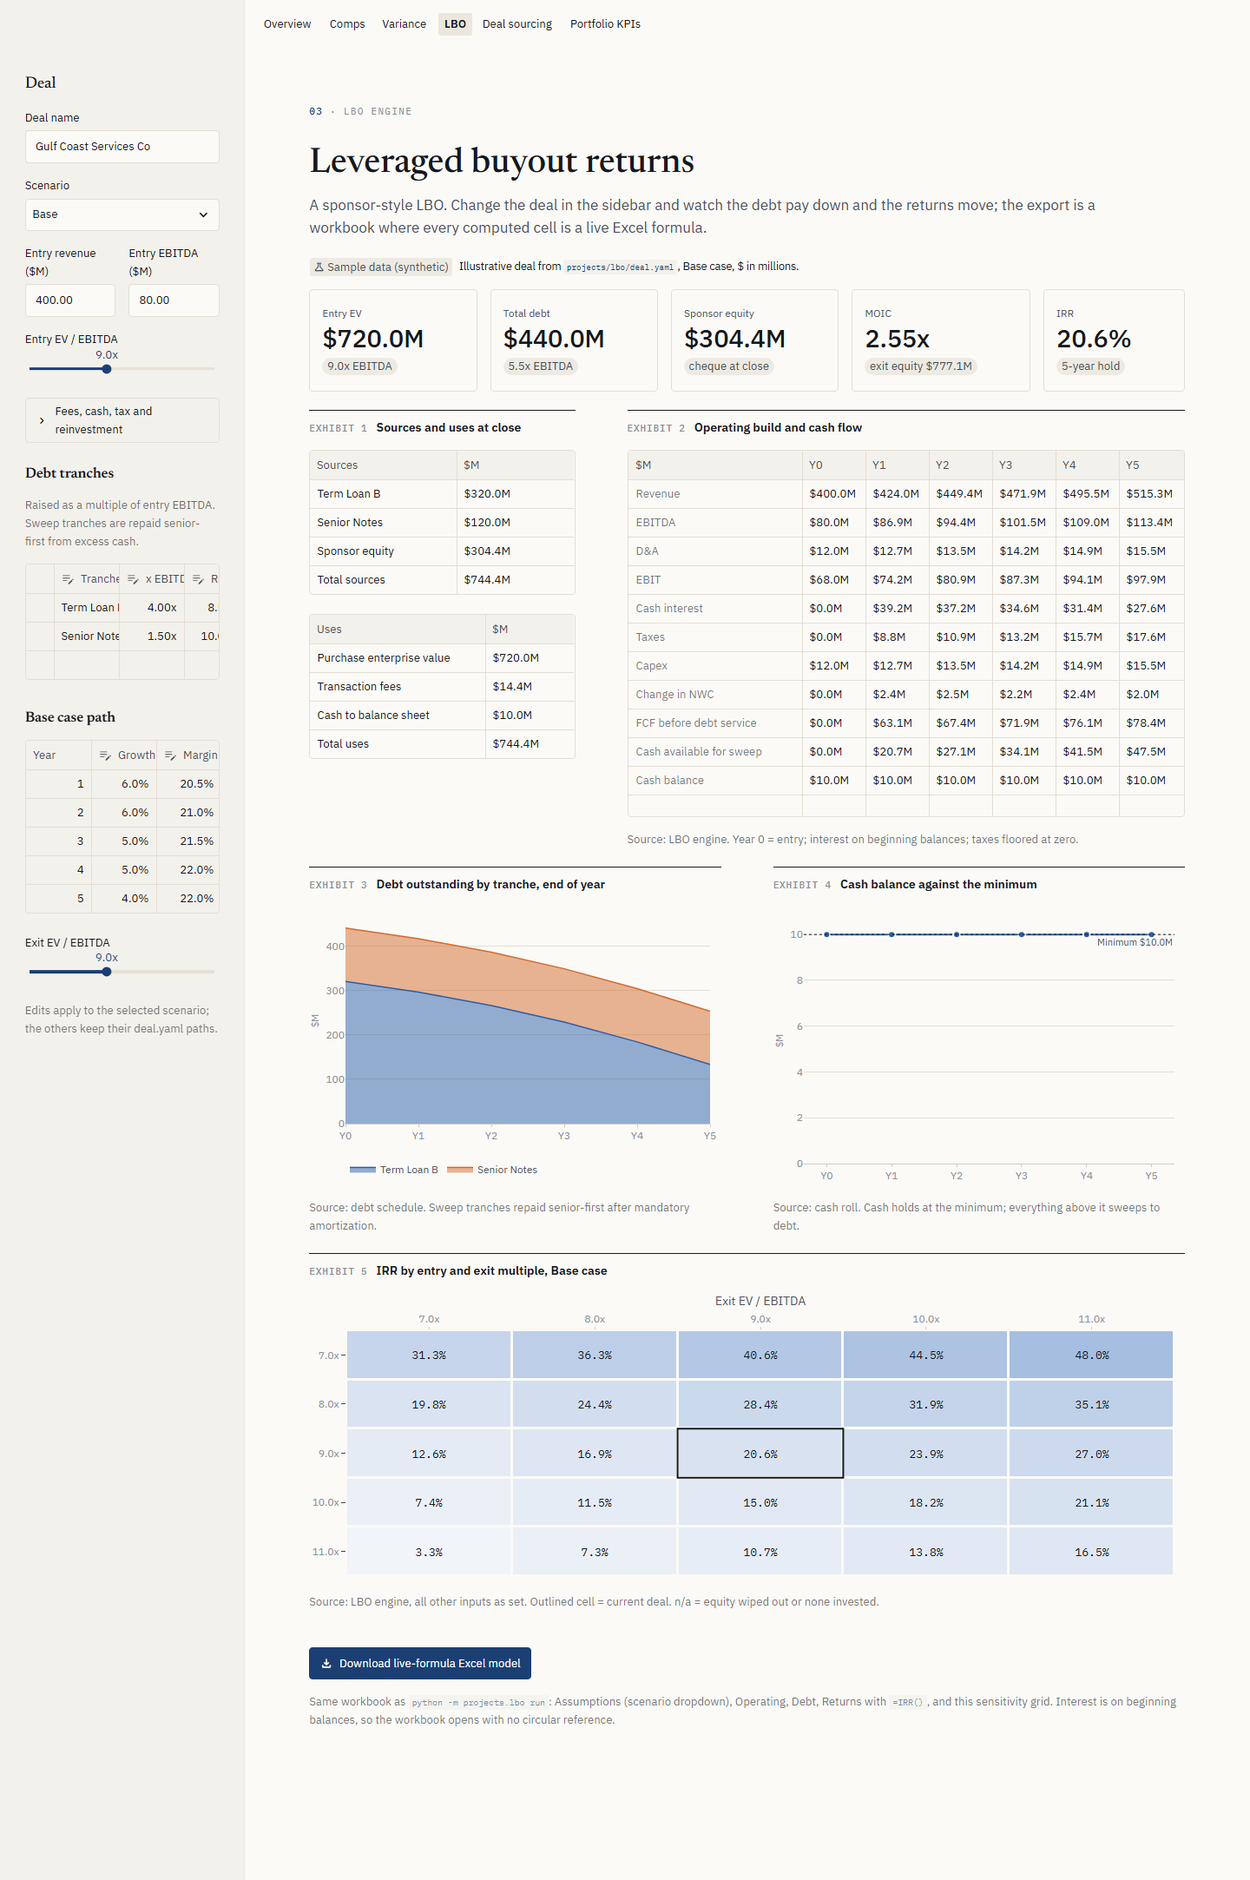
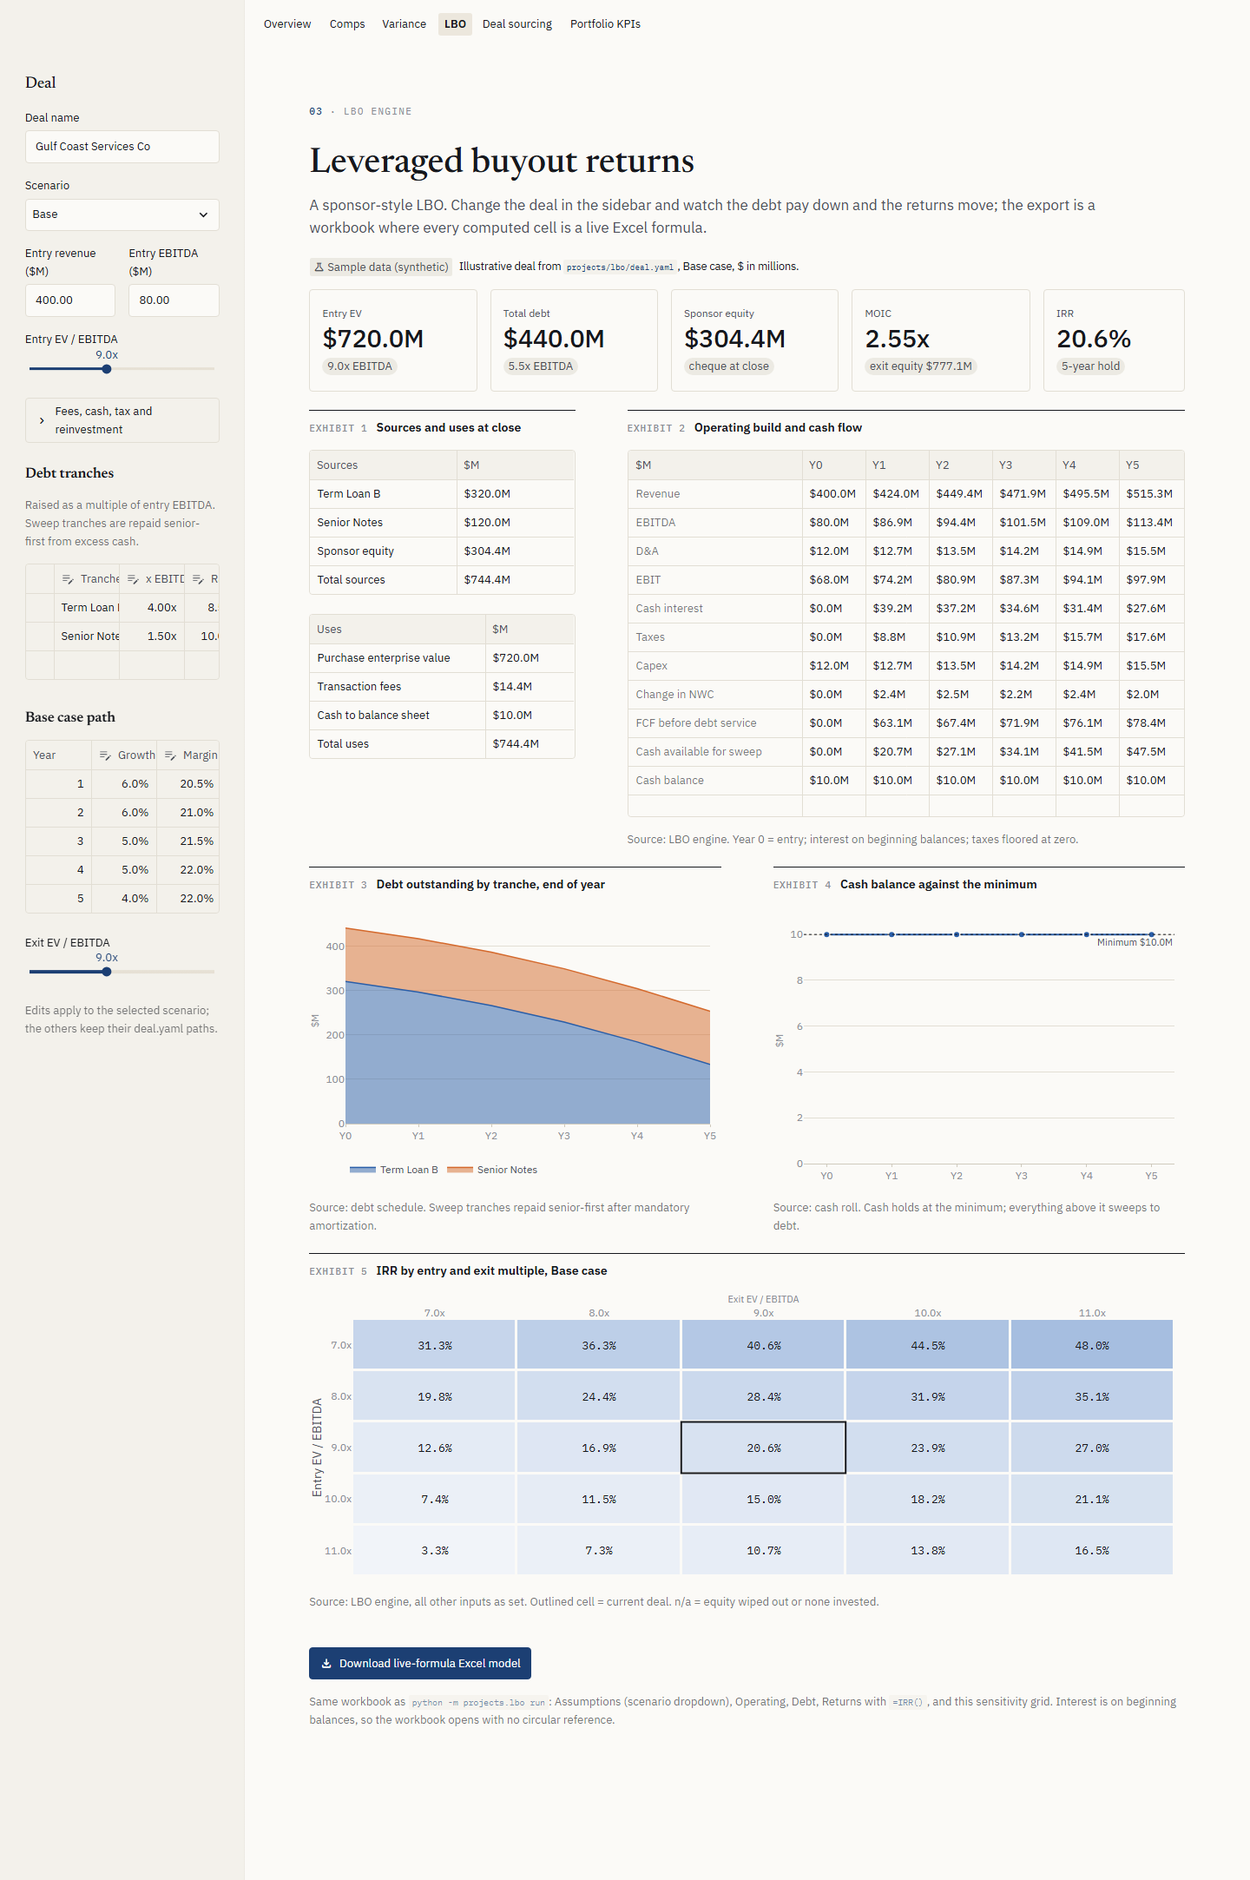
Fix code-review findings on the redesign
- Chart axis overrides now run after ui.style(), so funnel, score and
  heatmap charts keep their no-grid / no-tick settings.
- Score breakdown is a one-hue heatmap keyed by rank (no merged duplicate
  issuers, no unvalidated 4th/5th series colors) and follows the digest
  row count.
- Uploaded file names are escaped before st.markdown; all provenance
  badges are gray per DESIGN.md.
- "In target states" comes from new finlib.models.sourcing.kept_in_states
  (tested); the inline funnel percentage is gone.
- Overview derives its fixture day and variance period like the pages do,
  guards a missing YoY, and its test compares every tape figure with a
  direct engine call.
- Remove unused fu_pill.

Changed region(s): [[0.25, 0.6808, 0.9375, 0.8356]]

diff --git a/app/pages/4_Deal_Sourcing.py b/app/pages/4_Deal_Sourcing.py
@@ -10,7 +10,7 @@ import plotly.graph_objects as go
 import streamlit as st
 
 import fp_ui as ui
-from finlib.models.sourcing import ScoringConfig, digest_markdown, funnel, rank
+from finlib.models.sourcing import ScoringConfig, digest_markdown, funnel, kept_in_states, rank
 from finlib.providers.formd import FIXTURE_DIR, FormDProvider
 from finlib.store.sourcing_db import SourcingDB
 from projects.sourcing.cli import HERE, load_config
@@ -97,8 +97,7 @@ with st.container(horizontal=True):
               delta_arrow="off", border=True, height="stretch")
     st.metric("Top score", f"{kept[0]['score']:.0f}" if kept else "–", kept[0]["issuer"] if kept else None,
               delta_color="off", delta_arrow="off", border=True, height="stretch")
-    in_target = sum(1 for r in kept if r["state"] in set(target_states))
-    st.metric("In target states", in_target, ", ".join(target_states) or "none set", delta_color="off",
+    st.metric("In target states", kept_in_states(rows, target_states), ", ".join(target_states) or "none set", delta_color="off",
               delta_arrow="off", border=True, height="stretch")
 
 left, right = st.columns(2, gap="large")
@@ -107,19 +106,19 @@ with left:
     stages = funnel(rows)
     fig = go.Figure(go.Bar(
         y=[s for s, _ in stages], x=[n for _, n in stages], orientation="h", marker_color=ui.NAVY,
-        marker_cornerradius=2, text=[f"{n}  ({n / stages[0][1]:.0%})" for _, n in stages], textposition="outside",
+        marker_cornerradius=2, text=[str(n) for _, n in stages], textposition="outside",
         textfont=dict(color=ui.INK, size=12), cliponaxis=False, hovertemplate="%{y}: %{x}<extra></extra>"))
-    fig.update_yaxes(autorange="reversed", gridcolor="rgba(0,0,0,0)", zeroline=False)
     fig.update_layout(bargap=0.45)
-    fig = ui.style(fig, height=280)
-    fig.update_xaxes(showticklabels=False, showgrid=False)
+    fig = ui.style(fig, height=280)  # then this chart's overrides: categorical rows, no grid
+    fig.update_yaxes(autorange="reversed", showgrid=False, zeroline=False)
+    fig.update_xaxes(showticklabels=False, showgrid=False, ticks="", showline=False)
     fig.update_layout(margin=dict(r=70))
     ui.show(fig)
     ui.source("fund filter by industry and name, then amendments, then the minimum amount sold.")
 with right:
     ui.exhibit(2, "Kept raises by issuer state")
     by_state = pd.Series([r["state"] or "?" for r in kept]).value_counts()
-    targets = set(target_states)
+    targets = set(target_states)  # color lookup only
     fig = go.Figure(go.Bar(
         x=by_state.index, y=by_state.values, marker_cornerradius=2,
         marker_color=[ui.BLUE if s in targets else ui.AXIS for s in by_state.index],
@@ -152,20 +151,20 @@ else:
         st.caption("First-time filer = CIK not in a local `sourcing.sqlite`. None exists here, so every issuer "
                    "counts as first-time.")
 
-    ui.exhibit(4, "Where each score comes from, top 10")
-    top = kept[:10]
-    fig = go.Figure()
-    part_colors = dict(zip(labels, ui.SERIES + ui.SERIES_EXTRA[:2]))
-    for k, lab in labels.items():
-        fig.add_trace(go.Bar(
-            y=[r["issuer"] for r in top], x=[r["score_parts"].get(k, 0) for r in top], name=lab, orientation="h",
-            marker=dict(color=part_colors[k], line=dict(color=ui.PAPER, width=1)),
-            hovertemplate=f"%{{y}}<br>{lab}: %{{x:.1f}} pts<extra></extra>"))
-    fig.update_layout(barmode="stack", bargap=0.35)
-    fig.update_yaxes(autorange="reversed", gridcolor="rgba(0,0,0,0)", zeroline=False)
-    fig = ui.style(fig, height=380, legend=True)
-    fig.update_xaxes(title="Points", showgrid=True, gridcolor=ui.GRID, title_font=dict(color=ui.MUTED, size=11))
-    fig.update_layout(legend_traceorder="normal", legend_y=-0.14)
+    top = kept[:min(top_n, 10)]
+    ui.exhibit(4, f"Where each score comes from, top {len(top)}")
+    # One hue, light to dark: the five parts are columns, so they need no categorical colors.
+    fig = go.Figure(go.Heatmap(
+        z=[[r["score_parts"].get(k, 0) for k in labels] for r in top],
+        x=list(labels.values()), y=[f"{i}. {r['issuer']}" for i, r in enumerate(top, start=1)],
+        text=[[f"{r['score_parts'].get(k, 0):.1f}" for k in labels] for r in top], texttemplate="%{text}",
+        textfont=dict(color=ui.INK, size=12, family=ui.MONO),
+        colorscale=[[i / 3, c] for i, c in enumerate(ui.SEQ_BLUE[:4])], zmin=0,
+        zmax=max(max(weights.values()), 1), showscale=False, xgap=3, ygap=3,
+        hovertemplate="%{y}<br>%{x}: %{text} pts<extra></extra>"))
+    fig = ui.style(fig, height=44 * len(top) + 60)
+    fig.update_xaxes(side="top", showline=False, ticks="", tickfont=dict(color=ui.INK_2))
+    fig.update_yaxes(autorange="reversed", showgrid=False, zeroline=False, ticks="", tickfont=dict(color=ui.INK))
     ui.show(fig)
     ui.source("score = amount (log-scaled) + investor count + first-time filer + target state + target industry, "
               "weighted by the sidebar sliders.")

diff --git a/tests/test_app.py b/tests/test_app.py
@@ -63,6 +63,12 @@ def test_formatters_follow_excel_conventions():
     assert ui.fmt_usd(-190288.48) == "($190,288)"
 
 
+def test_upload_names_are_escaped_before_markdown():
+    out = ui.escape_text("a</small><img src=x onerror=alert(1)>_*b*:material/x:.csv")
+    assert "<" not in out and ">" not in out
+    assert r"\_\*b\*\:material/x\:" in out
+
+
 # ---------------------------------------------------------------- home ---------------
 def test_router_opens_on_overview():
     at = run_page("Home.py")
@@ -70,7 +76,16 @@ def test_router_opens_on_overview():
 
 
 def test_overview_lists_five_tools_with_resume_lines_and_live_tape():
+    from datetime import date
+
     from finlib.models.lbo import LBOAssumptions, run_lbo
+    from finlib.models.ratios import summary_rows
+    from finlib.models.sourcing import funnel, rank
+    from finlib.providers.formd import FormDProvider
+    from projects.comps.cli import load_all
+    from projects.dashboard.cli import HERE as DASH, payload_from_frame
+    from projects.sourcing.cli import HERE as SRC, load_config
+    from projects.variance.cli import HERE as VAR, build_variance, load_thresholds
 
     at = run_page("Home.py")  # page links resolve only through the router
     captions = " ".join(c.value for c in at.caption)
@@ -80,9 +95,16 @@ def test_overview_lists_five_tools_with_resume_lines_and_live_tape():
     tape = metrics(at)
     lbo = run_lbo(LBOAssumptions(**yaml.safe_load((ROOT / "projects/lbo/deal.yaml").read_text())))
     assert tape["03 · LBO engine"] == ui.fmt_pct(lbo.irr) == "20.6%"
-    assert tape["01 · Comps builder"] == "20.8x"
-    assert tape["04 · Deal sourcing"] == "25 of 36"
-    assert tape["02 · Variance report"] == "($190,288)"
+    _, _, rows = load_all(["AAPL", "MSFT", "GOOGL"])
+    assert tape["01 · Comps builder"] == ui.fmt_x(summary_rows(rows)[0]["ev_ebitda"]) == "20.8x"
+    stages = funnel(rank(FormDProvider().filings_for(date(2026, 10, 9)), load_config(SRC / "config.yaml")[0], set()))
+    assert tape["04 · Deal sourcing"] == f"{stages[-1][1]} of {stages[0][1]}" == "25 of 36"
+    pack = build_variance(pd.read_csv(VAR / "sample_data/actuals.csv"), pd.read_csv(VAR / "sample_data/budget.csv"),
+                          "2026-09", load_thresholds(VAR / "config.yaml"))
+    net = pack.summary.set_index("line").loc["Net"]
+    assert tape["02 · Variance report"] == ui.fmt_usd(net["variance_amt"]) == "($190,288)"
+    totals = payload_from_frame(pd.read_csv(DASH / "sample_data/kpis.csv"), "")["totals"]
+    assert tape["05 · Portfolio KPIs"] == f"{totals['revenue_yoy']:+.0%}"
 
 
 # ---------------------------------------------------------------- comps --------------
@@ -192,7 +214,7 @@ def test_lbo_downside_scenario_switch():
 def test_sourcing_matches_rank_and_downloads_digest(downloads):
     from datetime import date
 
-    from finlib.models.sourcing import digest_markdown, funnel, rank
+    from finlib.models.sourcing import digest_markdown, funnel, kept_in_states, rank
     from finlib.providers.formd import FormDProvider
     from projects.sourcing.cli import HERE, load_config
 
@@ -203,6 +225,8 @@ def test_sourcing_matches_rank_and_downloads_digest(downloads):
     m = metrics(at)
     assert m["Form D filings"] == str(len(rows)) == "36"
     assert m["Operating-company raises kept"] == str(funnel(rows)[-1][1]) == "25"
+    assert m["In target states"] == str(kept_in_states(rows, cfg.target_states))
+    assert "top 10" in " ".join(h.value for h in at.get("html") if "Exhibit 4" in str(h.value))
     assert downloads["digest_2026-10-09.md"].decode() == digest_markdown(rows, "2026-10-09", top_n, cfg)
 
 

diff --git a/app/pages/0_Overview.py b/app/pages/0_Overview.py
@@ -47,7 +47,7 @@ def tape() -> dict:
     from finlib.models.lbo import LBOAssumptions, run_lbo
     from finlib.models.ratios import summary_rows
     from finlib.models.sourcing import funnel, rank
-    from finlib.providers.formd import FormDProvider
+    from finlib.providers.formd import FIXTURE_DIR, FormDProvider
     from projects.comps.cli import load_all
     from projects.dashboard.cli import HERE as DASH, payload_from_frame
     from projects.sourcing.cli import HERE as SRC, load_config
@@ -56,19 +56,22 @@ def tape() -> dict:
     with ui.finlib_mode(True):
         _, _, rows = load_all(["AAPL", "MSFT", "GOOGL"])
         cfg, _ = load_config(SRC / "config.yaml")
-        stages = funnel(rank(FormDProvider().filings_for(date(2026, 10, 9)), cfg, set()))
-    pack = build_variance(pd.read_csv(VAR / "sample_data/actuals.csv"), pd.read_csv(VAR / "sample_data/budget.csv"),
-                          "2026-09", load_thresholds(VAR / "config.yaml"))
+        day = max(date.fromisoformat(p.name) for p in FIXTURE_DIR.iterdir() if p.is_dir())  # as the page defaults
+        stages = funnel(rank(FormDProvider().filings_for(day), cfg, set()))
+    actuals, budget = pd.read_csv(VAR / "sample_data/actuals.csv"), pd.read_csv(VAR / "sample_data/budget.csv")
+    period = max(set(actuals["period"].astype(str)) & set(budget["period"].astype(str)))  # the page's default
+    pack = build_variance(actuals, budget, period, load_thresholds(VAR / "config.yaml"))
     net = pack.summary.set_index("line").loc["Net"]
     deal = LBOAssumptions(**yaml.safe_load((ui.ROOT / "projects/lbo/deal.yaml").read_text()))
     lbo = run_lbo(deal)
     totals = payload_from_frame(pd.read_csv(DASH / "sample_data/kpis.csv"), "")["totals"]
     return {
         "comps": (ui.fmt_x(summary_rows(rows)[0]["ev_ebitda"]), "median EV / EBITDA"),
-        "variance": (ui.fmt_usd(net["variance_amt"]), "net income vs budget, Sep-26"),
+        "variance": (ui.fmt_usd(net["variance_amt"]), f"net income vs budget, {pack.period}"),
         "lbo": (ui.fmt_pct(lbo.irr), f"base-case IRR, {ui.fmt_x(lbo.moic, 2)} MOIC"),
         "sourcing": (f"{stages[-1][1]} of {stages[0][1]}", "Form D raises kept"),
-        "dashboard": (f"{totals['revenue_yoy']:+.0%}", "portfolio revenue, YoY"),
+        "dashboard": ("NM" if totals["revenue_yoy"] is None else f"{totals['revenue_yoy']:+.0%}",
+                      f"portfolio revenue, YoY to {totals['month']}"),
     }
 
 

diff --git a/app/fp_ui.py b/app/fp_ui.py
@@ -9,6 +9,7 @@ from __future__ import annotations
 
 import html
 import os
+import re
 import sys
 import tempfile
 import threading
@@ -105,10 +106,27 @@ def page_setup(title: str, dek: str, number: str = "", section: str = "") -> Non
 
 
 def provenance(sample: bool, note: str) -> None:
-    """One quiet line saying where the numbers on this page came from."""
+    """One quiet line saying where the numbers on this page came from. Always a gray badge:
+    provenance is not a status, so it never borrows gain / loss colors."""
     badge = (f":gray-badge[:material/science: {SAMPLE_LABEL}]" if sample
-             else ":green-badge[:material/cloud_done: Live data]")
+             else ":gray-badge[:material/cloud_done: Live · SEC EDGAR]")
     st.markdown(f"{badge}&nbsp; <small>{note}</small>", unsafe_allow_html=True)
+
+
+_MD_SPECIALS = re.compile(r"([\\`*_{}\[\]()#+\-.!|~:$])")
+
+
+def escape_text(text: str) -> str:
+    """User-supplied text (an upload's file name) made inert for st.markdown with HTML on:
+    markdown punctuation backslash-escaped, then <, > and & as entities."""
+    return html.escape(_MD_SPECIALS.sub(lambda m: "\\" + m.group(1), text), quote=False)
+
+
+def upload_badge(names: list[str], note: str) -> None:
+    """Provenance line for data the user uploaded; file names are escaped."""
+    files = " and ".join(escape_text(n) for n in names)
+    st.markdown(f":gray-badge[:material/upload_file: Your data]&nbsp; <small>{files}, {note}</small>",
+                unsafe_allow_html=True)
 
 
 def sample_badge(note: str = "") -> None:
@@ -130,15 +148,6 @@ def source(text: str) -> None:
 
 def rule() -> None:
     st.html('<hr class="fp-rule">')
-
-
-def fu_pill(fu: str) -> str:
-    """Markdown badge for a favorable / unfavorable judgment (status color + label)."""
-    if fu == "F":
-        return ":green-badge[:material/arrow_upward: Favorable]"
-    if fu == "U":
-        return ":red-badge[:material/arrow_downward: Unfavorable]"
-    return ":gray-badge[On budget]"
 
 
 # ---------------------------------------------------------------- secrets / mode -----

diff --git a/app/pages/3_LBO_Engine.py b/app/pages/3_LBO_Engine.py
@@ -197,9 +197,10 @@ fig = go.Figure(go.Heatmap(
 if a.entry_multiple in entry_grid and exit_multiple in exit_grid:  # outline the current deal
     i, j = entry_grid.index(a.entry_multiple), exit_grid.index(exit_multiple)
     fig.add_shape(type="rect", x0=j - 0.5, x1=j + 0.5, y0=i - 0.5, y1=i + 0.5, line=dict(color=ui.INK, width=2))
-fig.update_xaxes(title="Exit EV / EBITDA", side="top", showline=False, ticks="")
-fig.update_yaxes(title="Entry EV / EBITDA", autorange="reversed", showgrid=False, zeroline=False)
-ui.show(ui.style(fig, height=330))
+fig = ui.style(fig, height=330)  # house style first; the heatmap's own axis settings override it
+fig.update_xaxes(title="Exit EV / EBITDA", side="top", showline=False, ticks="", title_font=dict(color=ui.MUTED, size=11))
+fig.update_yaxes(title="Entry EV / EBITDA", autorange="reversed", showgrid=False, zeroline=False, ticks="")
+ui.show(fig)
 ui.source("LBO engine, all other inputs as set. Outlined cell = current deal. n/a = equity wiped out or none invested.")
 
 # ---------------------------------------------------------------- download ----------

diff --git a/tests/test_sourcing.py b/tests/test_sourcing.py
@@ -123,3 +123,16 @@ def test_funnel_counts_follow_drop_order():
     ], ScoringConfig(), set())
     assert funnel(rows) == [("Form D filings", 5), ("After fund filter", 4),
                             ("After amendment filter", 3), ("Kept (at or above min amount)", 2)]
+
+
+def test_kept_in_states_counts_only_kept_rows():
+    from finlib.models.sourcing import kept_in_states
+
+    rows = rank([
+        _fd(accession="1", cik="1", state="TX"),
+        _fd(accession="2", cik="2", state="TX", industry_group="Pooled Investment Fund"),
+        _fd(accession="3", cik="3", state="LA"),
+        _fd(accession="4", cik="4", state="CA"),
+    ], ScoringConfig(), set())
+    assert kept_in_states(rows, ["TX", "LA"]) == 2  # the TX fund is dropped, CA is not a target
+    assert kept_in_states(rows, []) == 0

diff --git a/finlib/models/sourcing.py b/finlib/models/sourcing.py
@@ -92,6 +92,12 @@ def funnel(rows: list[dict]) -> list[tuple[str, int]]:
             ("After amendment filter", n - funds - amend), ("Kept (at or above min amount)", kept)]
 
 
+def kept_in_states(rows: list[dict], states) -> int:
+    """How many kept raises have an issuer address in one of the given states."""
+    states = set(states)
+    return sum(1 for r in rows if r["kept"] and r["state"] in states)
+
+
 def digest_markdown(rows: list[dict], day: str, top_n: int, cfg: ScoringConfig) -> str:
     kept = [r for r in rows if r["kept"]][:top_n]
     dropped = [r for r in rows if not r["kept"]]

diff --git a/app/pages/5_KPI_Dashboard.py b/app/pages/5_KPI_Dashboard.py
@@ -33,8 +33,7 @@ except Exception as e:
 
 t = p["totals"]
 if up is not None:
-    st.markdown(f":blue-badge[:material/upload_file: Your data]&nbsp; <small>{up.name}, through {t['month']}.</small>",
-                unsafe_allow_html=True)
+    ui.upload_badge([up.name], f"through {t['month']}.")
 else:
     ui.sample_badge(f"{p['title']}: 8 companies, 24 months, with planted stories (two near the end of their "
                     "runway, one flat, three profitable, one post-Series-B).")

diff --git a/app/pages/2_Variance_Report.py b/app/pages/2_Variance_Report.py
@@ -49,8 +49,7 @@ except Exception as e:  # validation errors list every bad row
     st.stop()
 
 if uploaded:
-    st.markdown(f":blue-badge[:material/upload_file: Your data]&nbsp; <small>{up_a.name} and {up_b.name}, "
-                f"period {period}.</small>", unsafe_allow_html=True)
+    ui.upload_badge([up_a.name, up_b.name], f"period {period}.")
 else:
     ui.sample_badge("Generated by `projects/variance/make_sample_data.py` with four planted stories.")
 

diff --git a/DESIGN.md b/DESIGN.md
@@ -65,3 +65,5 @@ Minimal-functional. Streamlit's own transitions only.
 | --- | --- | --- |
 | 2026-10-11 | Research-note direction: Newsreader, IBM Plex Sans and Mono, paper and ink with a navy accent | The owner asked for a less generic look. A finance audience trusts the visual language of research reports, and stock Streamlit reads as a template. |
 | 2026-10-11 | Theme via `.streamlit/config.toml`; CSS only for exhibit labels and the masthead | Streamlit's bundled guidance: native theming survives upgrades, while CSS on internal classes does not. |
+| 2026-10-11 | Parts of a whole across more than three components are a one-hue heatmap with values printed, not a stacked bar | Only three series colors are validated; a fourth or fifth hue would be unvalidated or collide with chrome gray. |
+| 2026-10-11 | Every provenance badge is gray, including Live and uploaded data | Provenance is not a status; green and blue would borrow meanings the palette reserves. |

diff --git a/app/README.md b/app/README.md
@@ -30,7 +30,7 @@ Every `deal.yaml` input is a sidebar control: tranches and the scenario path are
 ![LBO Engine](../docs/screenshots/lbo.png)
 
 ### Deal Sourcing
-One day of SEC Form D filings, Offline (the synthetic fixture day) or Live (any weekday). Target states, industries and weight sliders re-score instantly without re-fetching. Shows the filter funnel, kept raises by state, the ranked table with links to each filing, and a score breakdown per row. The download is the markdown digest.
+One day of SEC Form D filings, Offline (the synthetic fixture day) or Live (any weekday). Target states, industries and weight sliders re-score instantly without re-fetching. Shows the filter funnel, kept raises by state, the ranked table with links to each filing, a heatmap of where each top score comes from, and a score breakdown per row. The download is the markdown digest.
 
 ![Deal Sourcing](../docs/screenshots/sourcing.png)
 
